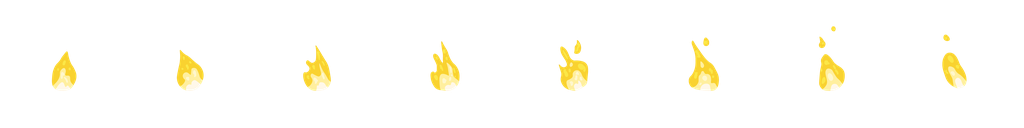
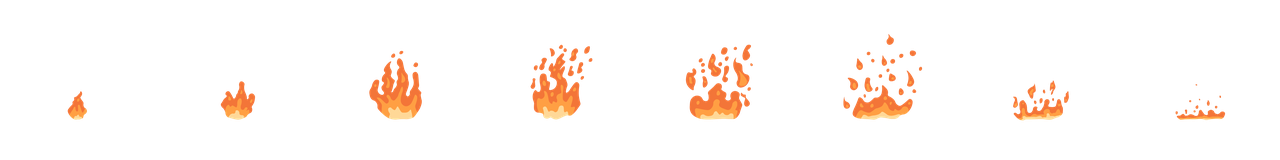
tweak(map): больше/крупнее эффектов ударов (10 видов, 2-3 за удар, чаще), герои крупнее
- assets/fx/fire{1..10}.png — все 10 эффектов огня (160px кадры)
- бой: 2-3 вспышки за удар, размер 110-180, чаще (0.55с), разброс по орку; гибель — взрыв 280 + 2 по бокам
- HSCALE 0.32→0.44 (герои крупнее)

diff --git a/bot/webapp.py b/bot/webapp.py
@@ -169,7 +169,7 @@ async def _fx_sprite(request: web.Request) -> web.Response:
     except (KeyError, ValueError):
         raise web.HTTPNotFound()
     p = ASSETS_DIR / "fx" / f"fire{n}.png"
-    if not (1 <= n <= 9) or not p.is_file():
+    if not (1 <= n <= 10) or not p.is_file():
         raise web.HTTPNotFound()
     return web.FileResponse(p, headers={"Cache-Control": "public, max-age=86400"})
 
@@ -585,7 +585,7 @@ const MAXS = 9;               // максимальный зум; минимал
       return {sp, hero:h, anim:'walk', dir:1, ox:t.x*W, oy:t.y*H, wx:t.x*W, wy:t.y*H,
               ang:Math.random()*6.28, rad:fw*(0.30+0.25*Math.random()), delay:(i%6)*0.06};
     });
-    const HSCALE = 0.32;   // размер героя относительно карты
+    const HSCALE = 0.44;   // размер героя относительно карты
     // пунктир маршрута таверна→орда (экранные коорд., экранно-постоянный шаг)
     function drawDotted(x1,y1,x2,y2,prog){
       const dx=x2-x1, dy=y2-y1, len=Math.hypot(dx,dy)||1, ux=dx/len, uy=dy/len, end=len*prog;
@@ -594,7 +594,7 @@ const MAXS = 9;               // максимальный зум; минимал
     }
     // эффекты ударов (огонь/взрыв) — one-shot, спавним по орку в бою
     const FX = [];
-    for (const n of [1,2,3]){
+    for (let n=1; n<=10; n++){
       try { const tx = await PIXI.Assets.load('/assets/fx/fire'+n+'.png');
         FX.push(sliceFrames(tx, Math.max(1, Math.round(tx.width/tx.height)))); } catch(e){}
     }
@@ -651,17 +651,19 @@ const MAXS = 9;               // максимальный зум; минимал
           u.wx = bx + Math.cos(u.ang)*u.rad*0.55; u.wy = by + Math.sin(u.ang)*u.rad*0.30 - fh*0.06;
           u.sp.visible=true; u.dir = (bx>=u.wx)?1:-1; uAnim(u,'attack'); }
         const s = performance.now()/1000;
-        if (s-lastHurt > 0.9){ lastHurt=s; anim.tint=0xff7a6a; setAnim('hurt');
-          spawnHit(bx + (Math.random()-0.5)*fw*0.4, by, 72);
-          if (Math.random()<0.5) spawnHit(bx + (Math.random()-0.5)*fw*0.5, by, 52); }
-        else if (s-lastHurt > 0.32){ anim.tint=0xffffff; setAnim('idle'); }
+        if (s-lastHurt > 0.55){ lastHurt=s; anim.tint=0xff7a6a; setAnim('hurt');
+          const n = 2 + (Math.random()*2|0);   // 2–3 вспышки за удар
+          for (let q=0;q<n;q++)
+            spawnHit(bx + (Math.random()-0.5)*fw*0.7, by - Math.random()*fh*0.3, 110 + Math.random()*70); }
+        else if (s-lastHurt > 0.22){ anim.tint=0xffffff; setAnim('idle'); }
       } else {                                        // ИТОГ
         const won = ev.result!=='lost';
         evEl.textContent = won ? '🏆 Орда разбита! Победа за городом' : '💀 Орки устояли…';
         if (won){
           hp.visible=false;
           if (!dieStarted && A.die){ dieStarted=true; anim.tint=0xffffff; setAnim('die');
-            spawnHit(bx, by, 160); }   // большой взрыв при гибели орды
+            spawnHit(bx, by - fh*0.2, 280);                              // большой взрыв
+            spawnHit(bx-fw*0.3, by, 150); spawnHit(bx+fw*0.3, by, 150); }  // + по бокам
           node.alpha = Math.max(0, node.alpha - 0.012);
           for (const u of units){ u.dir=(bx>=u.wx)?1:-1; uAnim(u,'idle'); }
         } else {